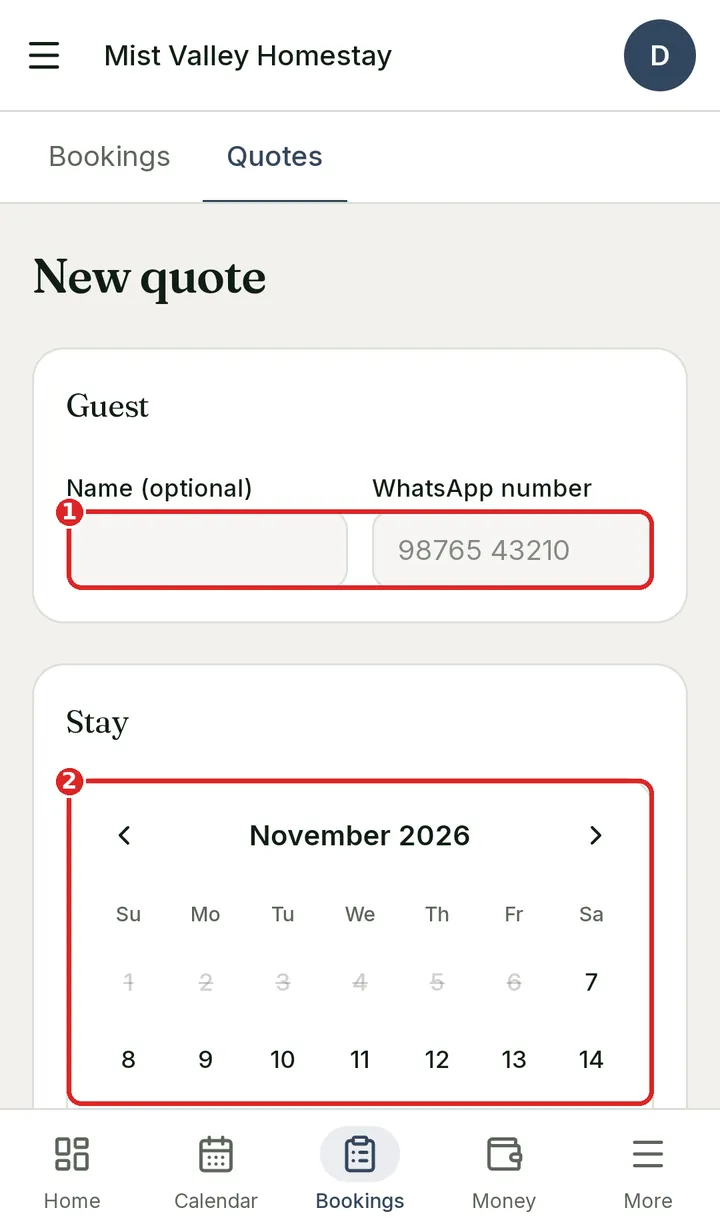
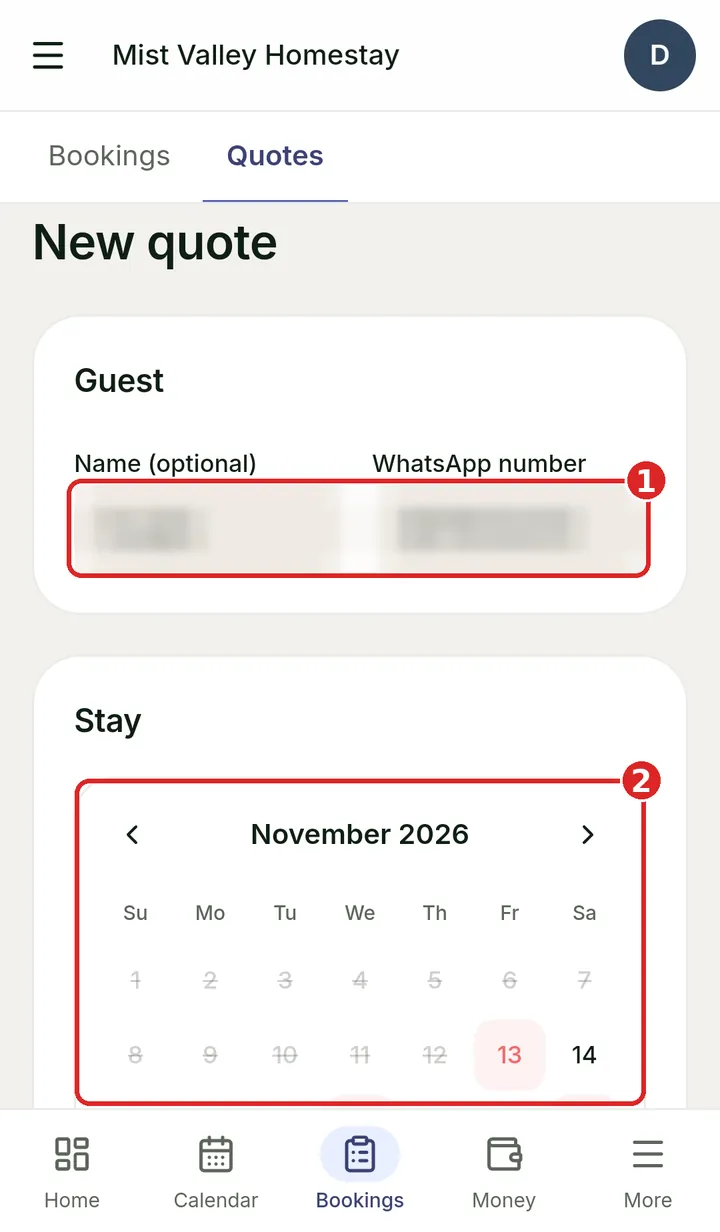
Help: retake 9 screenshots in the new look (03, 07, 08, 09, 10, 14, 19, 24, 30)
Three are stitched from two phone shots each (09, 10, 19), so shot() takes an
optional height. Guest names and phone numbers are pixelated. The 30 caption
now matches the screenshot. Five screenshots are still old: 01, 02, 04, 21, 26.

Claude-Session: https://claude.ai/code/session_01ANTkJnHQ4HU6pbchg7EXCM

diff --git a/src/content/ownerGuide.ts b/src/content/ownerGuide.ts
@@ -16,13 +16,13 @@ export type GuideBlock =
   | { type: "table"; head: string[]; rows: string[][] };
 
 /** Screenshot block. Files live in public/help/, 720 px wide WebP. */
-const shot = (file: string, alt: string, caption: string): GuideBlock => ({
+const shot = (file: string, alt: string, caption: string, height = 1232): GuideBlock => ({
   type: "image",
   src: `/help/${file}`,
   alt,
   caption,
   width: 720,
-  height: 1232,
+  height,
 });
 
 export type GuideSection = {
@@ -55,8 +55,8 @@ export const SITUATIONS: GuideSection[] = [
         ],
       },
       shot("08-quote-guest-stay.webp", "New quote form showing the guest fields and the stay calendar", "**1** Guest name and WhatsApp number. **2** Tap your check-in and check-out dates."),
-      shot("09-quote-rooms-addons.webp", "New quote form showing the room list and the add-ons list", "**1** Tap a room to include it and set its guests. **2** Pick the dates first, then choose add-ons here."),
-      shot("10-quote-discount-send.webp", "New quote form showing discount, validity date and the Send on WhatsApp button", "**1** Discount. **2** Quote valid until. **3** Send on WhatsApp."),
+      shot("09-quote-rooms-addons.webp", "New quote form showing the room list and the add-ons list", "**1** Tap a room to include it and set its guests. **2** Pick the dates first, then choose add-ons here. **3** Each add-on shows its price, option and guests.", 1679),
+      shot("10-quote-discount-send.webp", "New quote form showing discount, validity date and the Send on WhatsApp button", "**1** Discount. **2** Quote valid until. **3** Send on WhatsApp.", 1423),
       { type: "p", text: "When the guest says yes, find the quote under **Quotes** and tap **Convert to booking**. You can also mark a quote **Accepted** or **Lost** to keep the list tidy." },
       shot("22-quotes-list.webp", "Quotes list with a draft quote and its Send, Call, Edit, Convert to booking and Accepted buttons", "**1** Filter by Open, Accepted, Lost or All. **2** Send the quote on WhatsApp. **3** Convert it to a booking. **4** Mark it Accepted."),
       { type: "p", text: "The **Convert quote to booking** form opens already filled in. Room prices stay exactly as quoted, and add-ons are saved as **Extras** on the booking. It starts as **pending** and holds the dates until the advance arrives. Check the details and tap **Create booking**. A converted quote shows **Booked ✓** with a **View in Bookings** button. Ask for the advance, then follow \"The guest says they paid\" below." },
@@ -81,7 +81,7 @@ export const SITUATIONS: GuideSection[] = [
       },
       shot("01-home-needs-attention.webp", "Home screen with a booking request under Needs your attention", "**1** A new request appears under **Needs your attention**. Tap it to open the booking."),
       shot("02-booking-record-payment.webp", "Booking screen with the Confirm button and the Amount received field marked", "**1** Tap **Confirm** yourself, or **2** type the amount received in **Record advance payment**. **25% or more** confirms it by itself (the app suggests the 25% amount)."),
-      shot("30-booking-confirmed-prompt.webp", "Booking confirmed prompt with the Send confirmation on WhatsApp button", "**1** You can also send it later with **Send confirmation** at the top of the booking. **2** Tap **Send confirmation on WhatsApp**. **3** Or tap **Not now — I'll send it later**."),
+      shot("30-booking-confirmed-prompt.webp", "Booking confirmed prompt with the Send confirmation on WhatsApp button", "**1** Tap **Send confirmation on WhatsApp**. **2** Or tap **Not now — I'll send it later**. You can send it later with **Send confirmation** at the top of the booking."),
       { type: "note", label: "Watch out", text: "If you have not confirmed it or recorded the advance before the hold hours end (24 by default), the request is **cancelled and the dates released, with no message to anyone**. Check **Home** every few hours and reply early." },
     ],
   },
@@ -376,7 +376,7 @@ export const SETUP: GuideSection[] = [
           "Set its **Prices** in the same way as an add-on, then tap **Save**.",
         ],
       },
-      shot("19-package-form.webp", "Package form with name, description, how it is charged, and the add-ons it includes", "**1** Name. **2** How it is charged. **3** Tick the add-ons that are included."),
+      shot("19-package-form.webp", "Package form with name, description, how it is charged, and the add-ons it includes", "**1** Name. **2** How it is charged. **3** Tick the add-ons that are included.", 1335),
       { type: "p", text: "**Seasons** are your peak dates, such as Christmas or a festival. They are set up once in **Rooms & Pricing → Seasons**, and the same season can change room prices and add-on prices. When you add a season there, keep **Also use for add-ons & packages** ticked, then come back here and give each add-on and package its own price for it. **Leave a price blank to use the base price.** **Fill blanks** on the season can copy the base price (or base plus a percentage) into every blank for you." },
       { type: "note", label: "Good to know", text: "Guests cannot buy add-ons or packages online. You add them to a quote or booking after talking to the guest." },
     ],

diff --git a/docs/OWNER_HELP.md b/docs/OWNER_HELP.md
@@ -91,6 +91,9 @@ All are 720 px wide WebP (about 30–50 KB), phone screenshots of the **demo pro
 
 > **11 Nov 2026: every screenshot is now out of date.** The owner side got a new look (soft flat cards, round buttons, one dialog style, avatar list on Payments, flat Calendar, pill navigation; see HANDOVER §10 item 50). Names and steps in the text are still right (the one wording change: Payments now says **View … in the list →**), but retake all screenshots in one session on the demo property so the guide looks consistent. Order of value: Home, Booking, Payments, Calendar, Block dates, Rooms editor, Settings.
 
+> **13 Nov 2026 (batch 3): 9 more screenshots retaken, 5 still old.** Retaken: `03`, `07`, `08`, `14`, `24`, `30`, plus three stitched from two phone shots each because the page scrolls: `09` (rooms + add-ons, 720 x 1679), `10` (discount + Send on WhatsApp, 720 x 1423), `19` (package form top + Includes, 720 x 1335). `shot()` now takes an optional height (default 1232) for these taller images. Guest names and phone numbers in `07`, `08`, `30` are pixelated. The `30` caption changed: **Send confirmation** at the top of the booking is now in the text, not a numbered box.
+> **Still the old look (5):** `01` (needs a pending request on Home), `02` (needs a pending booking showing Confirm and Record advance payment), `04` (room pricing section), `21` (the pre-filled convert form), `26` (Charges tab with **Add from your catalog**, Option, People and **Add to extras** visible; the batch-3 shot only showed the custom-charge form and an added item, so it did not match the caption).
+
 > **13 Nov 2026: 12 screenshots retaken in the new look, 3 new ones added, 14 still old.**
 > Retaken (720 × 1232, status bar cropped, numbered red boxes, UPI ID pixelated): `11`, `12`, `13`, `15`, `16`, `18`, `22`, `25`, `27`, `28`, `29`, `31`. New: `32-seasons-card` and `33-add-season-form` (in `seasonal-rates` and `raise-prices`), `34-agent-opened` (in `agent-guest`). Wording fixes made with them: the agent booking button is **Paid** (not "Mark paid"); the Block dates button reads **Block nights**, then **Block 1 night**; **Set room prices** becomes **Add or change a room price** once a season has a room price.
 > **Still the old look, retake on the demo property:**
